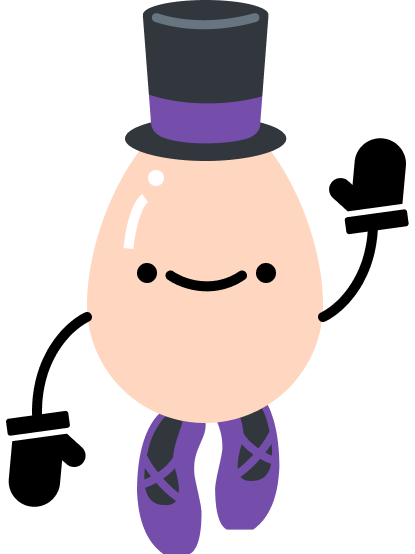
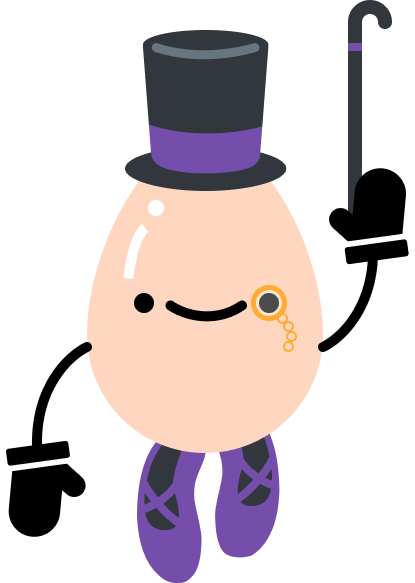
added BETTER sprites

diff --git a/JS/script.js b/JS/script.js
@@ -95,11 +95,13 @@ function constrainLine(l){
 function drawLine(l) {
     if (hovering && l == lines[mi]) tint(255, 125.5)
     else tint(255, 255)
-    let monkeWidth = monkeSprite.width / 10;
-    let monkeHeight = monkeSprite.height / 10;
+    let monkeWidth = monkeSprite.width / 5;
+    let monkeHeight = monkeSprite.height / 5;
     push()
     translate((l.p1.x + l.p2.x)/2, (l.p1.y + l.p2.y)/2)
-    rotate(Math.atan2(l.p2.y - l.p1.y, l.p2.x - l.p1.x) - radians(90))
+    let tilt = 0;
+    if (lines.indexOf(l) <= mi - 1) tilt = 45; 
+    rotate(Math.atan2(l.p2.y - l.p1.y, l.p2.x - l.p1.x) - radians(90+tilt))
     image(monkeSprite, 0, 0, monkeWidth, monkeHeight)
     pop()
 }
